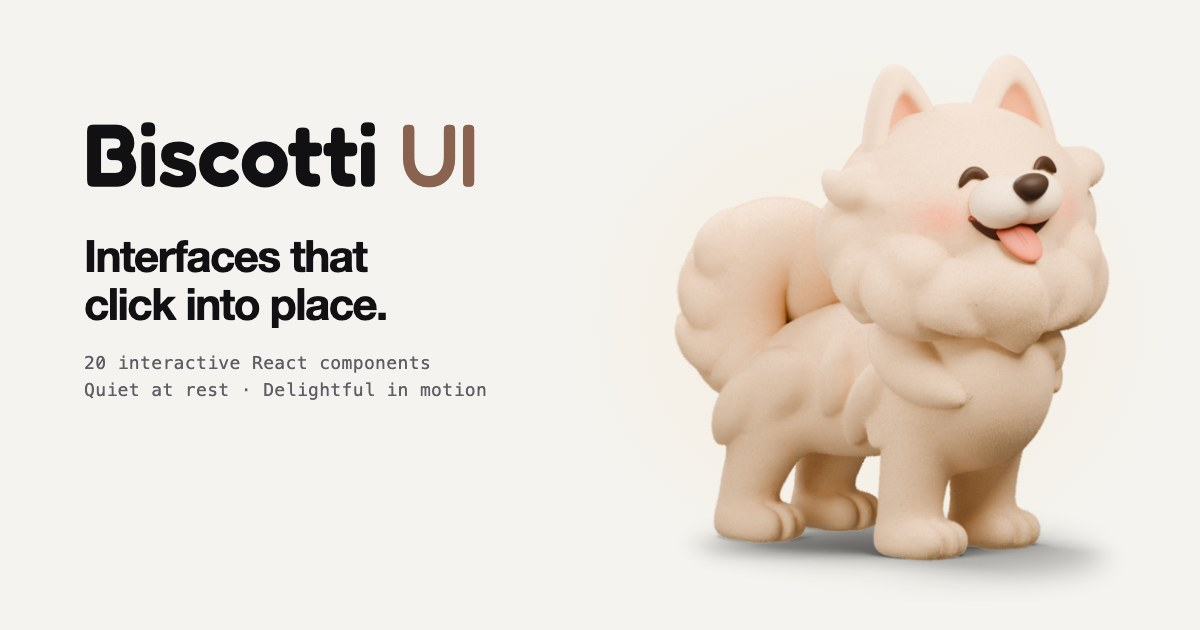
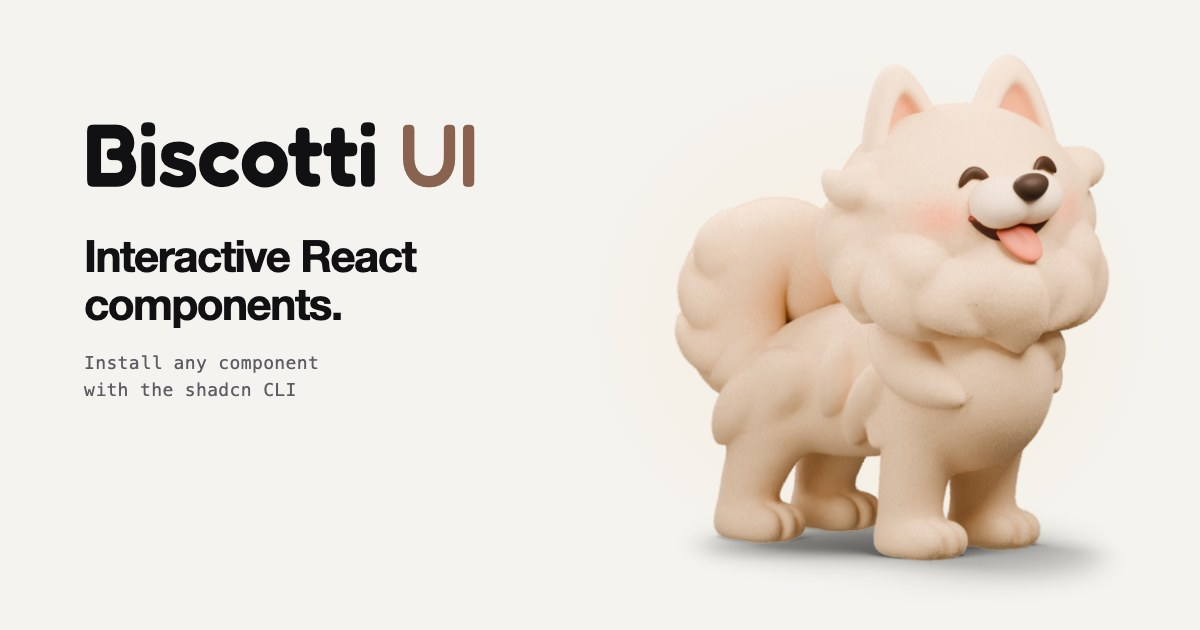
feat(web): plain technical copy; footer X link; GitHub links gated for public launch
Copy (ASD-STE100 style: short active sentences, concrete behaviour,
consistent terms): homepage hero, featured tile, metadata, 404,
Foundations section intros, Workbench intro, component install heading,
all 20 catalog summaries and descriptions, group intros and the social
image. Removes promotional counts and claims; commands, keys, numbers
and API names are unchanged.

Footer: circular X profile link (https://x.com/MukundMohanK). GitHub
links (header Source, footer Star on GitHub + GitHub, component View
source) render only when the build sets NEXT_PUBLIC_REPO_PUBLIC=true;
the default build has no repository links. check-pages enforces the
state on every route; e2e covers the default private footer.

Changed region(s): [[0.0925, 0.3619, 0.37, 0.5127], [0.0617, 0.5429, 0.4008, 0.6333]]

diff --git a/apps/web/src/app/foundations/page.tsx b/apps/web/src/app/foundations/page.tsx
@@ -71,7 +71,7 @@ export default function Foundations() {
           <p className="mb-3 font-mono text-2xs uppercase tracking-[0.08em] text-muted">Foundations</p>
           <h1 className="max-w-[820px] text-[clamp(34px,5.5vw,56px)] font-semibold leading-[1] tracking-[-0.04em]">Pencil, then ink.</h1>
           <p className="mt-5 max-w-[640px] text-md text-ink-2">
-            One rule explains every colour in Biscotti UI: anything provisional — streaming, proposed, pending, live — is drawn in pencil. When it becomes true, it’s inked. Everything else is paper, graphite and hairlines.
+            One rule sets every colour in Biscotti UI. Provisional state (streaming, proposed, pending, live) uses pencil. Committed state uses ink. All other surfaces use paper, graphite and hairlines.
           </p>
         </div>
         {/* Biscotti, the mascot: rendered from the editable Blender model. */}
@@ -89,7 +89,7 @@ export default function Foundations() {
         </div>
       </header>
 
-      <Section id="brand" n="00" title="Brand" intro="Biscotti is the mascot: a cream pup rendered in 3D. The face tile is the logo; the wordmark is set in Fredoka, with a lighter, toasted “UI”. Use the tile from 24 px up and keep clear space of half its width.">
+      <Section id="brand" n="00" title="Brand" intro="Biscotti is the mascot, a cream pup rendered in 3D. The face tile is the logo. The wordmark uses Fredoka, with a lighter “UI” in toasted brown. Use the tile at 24 px or larger. Keep clear space of half the tile width around it.">
         <div className="grid gap-3 sm:grid-cols-2">
           {(["light", "dark"] as const).map((t) => (
             <div key={t} data-theme={t} className="flex flex-col gap-5 rounded-lg bg-paper p-5 text-ink shadow-[inset_0_0_0_1px_var(--bis-hairline)]">
@@ -108,14 +108,14 @@ export default function Foundations() {
         </div>
       </Section>
 
-      <Section id="color" n="01" title="Colour" intro="Warm paper and graphite, one cobalt pencil, and status colours reserved for status. Every token is a CSS variable you can remap in a host app.">
+      <Section id="color" n="01" title="Colour" intro="Warm paper and graphite, one cobalt pencil, and status colours for status only. Each token is a CSS variable. A host app can remap any token.">
         <div className="grid gap-3 lg:grid-cols-2">
           <Swatches theme="light" />
           <Swatches theme="dark" />
         </div>
       </Section>
 
-      <Section id="type" n="02" title="Type" intro="Geist for interface, Geist Mono (tabular) for every number, timer, path and key. Newsreader italic appears in exactly one role: provenance — where a claim came from.">
+      <Section id="type" n="02" title="Type" intro="Geist for the interface. Geist Mono with tabular figures for numbers, timers, paths and keys. Newsreader italic for one role only: provenance, which shows the source of a claim.">
         <div className="grid">
           {typeScale.map(([k, px, use]) => (
             <div key={k} className="grid items-baseline gap-4 border-b border-hairline py-2.5 sm:grid-cols-[90px_1fr_200px]">
@@ -132,7 +132,7 @@ export default function Foundations() {
         </div>
       </Section>
 
-      <Section id="shape" n="03" title="Geometry & depth" intro="Small radii that grow with the size of the surface. Depth comes from hairlines and one soft ambient shadow — never glass or glow.">
+      <Section id="shape" n="03" title="Geometry & depth" intro="Radii increase with surface size. Depth comes from hairlines and one soft ambient shadow. No glass or glow.">
         <div className="flex flex-wrap items-end gap-5">
           {[["xs", 2, "chips, kbd"], ["sm", 4, "controls"], ["md", 6, "inputs"], ["lg", 10, "panels"], ["xl", 14, "stages"]].map(([k, r, use]) => (
             <div key={k as string} className="text-center">
@@ -153,15 +153,15 @@ export default function Foundations() {
         </div>
       </Section>
 
-      <Section id="motion" n="04" title="Motion" intro="Timing is chosen per interaction class. State changes on the input frame; springs only settle what already happened. Only the latch overshoots. Under reduced motion, travel becomes instant and a 120 ms fade remains.">
+      <Section id="motion" n="04" title="Motion" intro="Each interaction class has its own timing. State changes on the input frame. Springs only settle a change that already happened. Only the latch overshoots. With reduced motion, travel is instant and a 120 ms fade remains.">
         <Springs />
       </Section>
 
-      <Section id="sound" n="05" title="Sound" intro="Thirteen voices synthesised with the Web Audio API — filtered noise transients and pentatonic sine partials through one limiter. Off by default; never on hover, focus or background updates.">
+      <Section id="sound" n="05" title="Sound" intro="Thirteen voices synthesised with the Web Audio API: filtered noise transients and pentatonic sine partials through one limiter. Sound is off by default. It never plays on hover, focus or background updates.">
         <SoundBoard />
       </Section>
 
-      <Section id="icons" n="06" title="Icons" intro="Drawn on a 16 px grid with a 1.5 px stroke and round joins, sized to sit on the text baseline. Click to copy a name.">
+      <Section id="icons" n="06" title="Icons" intro="Drawn on a 16 px grid with a 1.5 px stroke and round joins. Sized for the text baseline. Click an icon to copy its name.">
         <IconGrid />
       </Section>
     </div>

diff --git a/apps/web/src/components/site-chrome.tsx b/apps/web/src/components/site-chrome.tsx
@@ -2,7 +2,7 @@
 import Link from "next/link";
 import { useEffect, useRef, useState, type ReactNode } from "react";
 import { AnimatePresence, motion } from "motion/react";
-import { REPO_URL, publicPath } from "@/site";
+import { REPO_PUBLIC, REPO_URL, X_PROFILE_URL, publicPath } from "@/site";
 import { announceIndexHash } from "@/components/home/index-browser";
 import { Icon, cn, surfaceVariants, useMotionTokens, useSoundPrefs, sound } from "@biscotti/ui";
 
@@ -169,7 +169,7 @@ export function SiteChrome({ children }: { children: ReactNode }) {
             <span className="sr-only">, home</span>
           </Link>
           <div className="ml-auto flex items-center gap-2">
-            <a href={REPO_URL} className="focus-ring mr-2 hidden items-center gap-1.5 rounded-sm text-xs text-muted hover:text-ink lg:inline-flex">Source<Icon name="arrowUpRight" size={13} /></a>
+            {REPO_PUBLIC && <a href={REPO_URL} className="focus-ring mr-2 hidden items-center gap-1.5 rounded-sm text-xs text-muted hover:text-ink lg:inline-flex">Source<Icon name="arrowUpRight" size={13} /></a>}
             {/* The labelled control fits from 400 px; narrower phones get the icon-only version so the header never overflows. */}
             <div className="hidden min-[400px]:block"><SoundControl /></div>
             <div className="min-[400px]:hidden"><SoundControl compact /></div>
@@ -183,6 +183,19 @@ export function SiteChrome({ children }: { children: ReactNode }) {
   );
 }
 
+/** Brand marks for the footer's profile links (not in the UI icon set). */
+function XMark() {
+  return <svg viewBox="0 0 24 24" width="14" height="14" aria-hidden fill="currentColor"><path d="M18.244 2.25h3.308l-7.227 8.26 8.502 11.24H16.17l-5.214-6.817L4.99 21.75H1.68l7.73-8.835L1.254 2.25H8.08l4.713 6.231zm-1.161 17.52h1.833L7.084 4.126H5.117z" /></svg>;
+}
+function GitHubMark() {
+  return <svg viewBox="0 0 16 16" width="15" height="15" aria-hidden fill="currentColor"><path d="M8 0C3.58 0 0 3.58 0 8c0 3.54 2.29 6.53 5.47 7.59.4.07.55-.17.55-.38 0-.19-.01-.82-.01-1.49-2.01.37-2.53-.49-2.69-.94-.09-.23-.48-.94-.82-1.13-.28-.15-.68-.52-.01-.53.63-.01 1.08.58 1.23.82.72 1.21 1.87.87 2.33.66.07-.52.28-.87.51-1.07-1.78-.2-3.64-.89-3.64-3.95 0-.87.31-1.59.82-2.15-.08-.2-.36-1.02.08-2.12 0 0 .67-.21 2.2.82.64-.18 1.32-.27 2-.27.68 0 1.36.09 2 .27 1.53-1.04 2.2-.82 2.2-.82.44 1.1.16 1.92.08 2.12.51.56.82 1.27.82 2.15 0 3.07-1.87 3.75-3.65 3.95.29.25.54.73.54 1.48 0 1.07-.01 1.93-.01 2.2 0 .21.15.46.55.38A8.01 8.01 0 0 0 16 8c0-4.42-3.58-8-8-8z" /></svg>;
+}
+function StarMark() {
+  return <svg viewBox="0 0 16 16" width="13" height="13" aria-hidden fill="none" stroke="currentColor" strokeWidth="1.4" strokeLinejoin="round"><path d="M8 1.6l1.9 3.9 4.3.6-3.1 3 .7 4.3L8 11.4l-3.8 2 .7-4.3-3.1-3 4.3-.6z" /></svg>;
+}
+
+const circle = "focus-ring grid size-8 shrink-0 place-items-center rounded-full text-ink-2 shadow-[inset_0_0_0_1px_var(--bis-hairline)] transition-colors duration-[90ms] hover:bg-surface hover:text-ink";
+
 /** Secondary destinations live here, not in the header: the site opens straight into the components. */
 function SiteFooter() {
   return (
@@ -195,9 +208,20 @@ function SiteFooter() {
           <Link href="/foundations" className="focus-ring rounded-xs hover:text-ink">Foundations</Link>
           <Link href="/workbench" className="focus-ring rounded-xs hover:text-ink">Workbench</Link>
           <a href={publicPath("/r/registry.json")} className="focus-ring rounded-xs hover:text-ink">Registry</a>
-          <a href={REPO_URL} className="focus-ring inline-flex items-center gap-1 rounded-xs hover:text-ink">Source <Icon name="arrowUpRight" size={12} /></a>
         </nav>
-        <span className="text-xs sm:ml-auto">MIT licence</span>
+        <div className="flex w-full flex-wrap items-center gap-x-4 gap-y-3 sm:ml-auto sm:w-auto">
+          {/* GitHub links render only once the repository is public (NEXT_PUBLIC_REPO_PUBLIC=true). */}
+          {REPO_PUBLIC && (
+            <a href={REPO_URL} className="focus-ring inline-flex h-8 items-center gap-1.5 rounded-full px-3 text-ink-2 shadow-[inset_0_0_0_1px_var(--bis-hairline)] transition-colors duration-[90ms] hover:bg-surface hover:text-ink">
+              <StarMark /> Star on GitHub
+            </a>
+          )}
+          <div className="flex items-center gap-2">
+            {REPO_PUBLIC && <a href={REPO_URL} aria-label="Biscotti UI on GitHub" className={circle}><GitHubMark /></a>}
+            <a href={X_PROFILE_URL} aria-label="Mukund Mohan on X" rel="me noopener" className={circle}><XMark /></a>
+          </div>
+          <span className="text-xs">MIT licence</span>
+        </div>
       </div>
     </footer>
   );

diff --git a/apps/web/src/app/components/[slug]/page.tsx b/apps/web/src/app/components/[slug]/page.tsx
@@ -6,7 +6,7 @@ import { groupId, inWorkbench } from "@/catalog/group-info";
 import { StageShell } from "@/components/stage-shell";
 import { Code } from "@/components/code";
 import { Icon, Kbd } from "@biscotti/ui";
-import { canonicalMetadata, siteUrl, REGISTRY_IS_LOCAL, REGISTRY_URL, componentSourceUrl, originComment } from "@/site";
+import { canonicalMetadata, siteUrl, REGISTRY_IS_LOCAL, REGISTRY_URL, REPO_PUBLIC, componentSourceUrl, originComment } from "@/site";
 
 export function generateStaticParams() {
   return catalog.map((e) => ({ slug: e.slug }));
@@ -141,9 +141,11 @@ export default async function ComponentPage({ params }: { params: Promise<{ slug
                 </li>
               ))}
             </ol>
-            <a href={source} className="focus-ring mt-6 inline-flex items-center gap-1.5 rounded-xs text-sm text-ink-2 hover:text-ink">
-              <Icon name="code" size={14} /> View source <Icon name="external" size={12} className="text-muted" />
-            </a>
+            {REPO_PUBLIC && (
+              <a href={source} className="focus-ring mt-6 inline-flex items-center gap-1.5 rounded-xs text-sm text-ink-2 hover:text-ink">
+                <Icon name="code" size={14} /> View source <Icon name="external" size={12} className="text-muted" />
+              </a>
+            )}
           </div>
         </nav>
 
@@ -161,7 +163,7 @@ export default async function ComponentPage({ params }: { params: Promise<{ slug
           <Section id="install" n={num("install")} title="Install">
             <div className="grid gap-5">
               <div className="grid gap-2">
-                <h3 className="text-sm font-medium">Copy the source with the shadcn CLI</h3>
+                <h3 className="text-sm font-medium">Install the source with the shadcn CLI</h3>
                 <Code lang="sh" title="Terminal" code={install} />
                 <p className="max-w-[680px] text-sm text-muted [overflow-wrap:anywhere]">
                   Adds the component and the shared <span className="font-mono text-ink-2">biscotti-foundation</span> (tokens, springs, sound engine, icons) under <span className="font-mono text-ink-2">components/biscotti/</span>
@@ -178,9 +180,11 @@ export default async function ComponentPage({ params }: { params: Promise<{ slug
                 <h3 className="text-sm font-medium">Or import it inside this monorepo</h3>
                 <Code lang="tsx" title="workspace" code={`import { ${componentImport(e.usage)} } from "@biscotti/ui";`} />
               </div>
-              <a href={source} className="focus-ring inline-flex w-fit items-center gap-1.5 rounded-xs text-sm text-ink-2 hover:text-ink lg:hidden">
-                <Icon name="code" size={14} /> View source on GitHub <Icon name="external" size={12} className="text-muted" />
-              </a>
+              {REPO_PUBLIC && (
+                <a href={source} className="focus-ring inline-flex w-fit items-center gap-1.5 rounded-xs text-sm text-ink-2 hover:text-ink lg:hidden">
+                  <Icon name="code" size={14} /> View source on GitHub <Icon name="external" size={12} className="text-muted" />
+                </a>
+              )}
             </div>
           </Section>
 

diff --git a/apps/web/src/app/not-found.tsx b/apps/web/src/app/not-found.tsx
@@ -1,15 +1,14 @@
 import Link from "next/link";
 import type { Metadata } from "next";
 import { Icon } from "@biscotti/ui";
-import { catalog } from "@/catalog";
 import { publicPath } from "@/site";
 
 // Next adds <meta name="robots" content="noindex"> to not-found pages itself.
 export const metadata: Metadata = { title: "Page not found" };
 
 const routes = [
-  { href: "/", label: "Components", detail: `All ${catalog.length}, live`, icon: "layers" },
-  { href: "/workbench", label: "Workbench", detail: "Ten components working together", icon: "activity" },
+  { href: "/", label: "Components", detail: "Live preview of each component", icon: "layers" },
+  { href: "/workbench", label: "Workbench", detail: "One app that uses the components together", icon: "activity" },
   { href: "/foundations", label: "Foundations", detail: "Brand, colour, type, motion, sound", icon: "palette" },
 ] as const;
 
@@ -27,10 +26,10 @@ export default function NotFound() {
         <span>Not found</span>
       </p>
       <h1 className="mt-4 max-w-[720px] text-[clamp(34px,6vw,64px)] font-semibold leading-[1] tracking-[-0.04em]">
-        Still in pencil.
+        Page not found.
       </h1>
       <p className="mt-5 max-w-[560px] text-md leading-[26px] text-ink-2">
-        Nothing has been inked at this address. The page may have moved, or the link was never real. Every component lives under Components.
+        No page exists at this address. The page moved, or the link is incorrect. Go to Components to see all components.
       </p>
 
       {/* The provisional rule from the components: a pencil line with a gap, never closed. */}
@@ -66,7 +65,7 @@ export default function NotFound() {
           alt="Biscotti the pup, close up, smiling with its tongue out"
           className="block h-auto w-full rounded-[14px] shadow-[inset_0_0_0_1px_var(--bis-hairline)]"
         />
-        <figcaption className="mt-3 font-mono text-2xs text-muted">Biscotti looked everywhere. Nothing here yet.</figcaption>
+        <figcaption className="mt-3 font-mono text-2xs text-muted">No page at this address.</figcaption>
       </figure>
     </div>
   );

diff --git a/e2e/navigation.spec.ts b/e2e/navigation.spec.ts
@@ -2,7 +2,7 @@ import { expect, test } from "@playwright/test";
 
 test("the homepage is the component index: headline, featured tile, category sidebar/tabs with hash sync, footer links", async ({ page }, info) => {
   await page.goto("/", { waitUntil: "networkidle" });
-  await expect(page.getByRole("heading", { level: 1, name: "Twenty components, built to be touched." })).toBeVisible();
+  await expect(page.getByRole("heading", { level: 1, name: "Interactive React components." })).toBeVisible();
   // The header carries the brand, sound and theme only.
   await expect(page.locator("header nav")).toHaveCount(0);
   await expect(page.getByRole("button", { name: /Copy to clipboard/ }).first()).toBeVisible();
@@ -107,5 +107,21 @@ test("a hold-to-confirm Kinetic Button keeps its size when it completes", async 
     const now = (await btn.boundingBox())!;
     expect(Math.round(now.width), `width while ${state}`).toBe(Math.round(before.width));
     expect(Math.round(now.x), `x while ${state}`).toBe(Math.round(before.x));
+  }
+});
+
+test("footer: circular X profile link; no GitHub links while the repository is private (default build)", async ({ page }) => {
+  for (const path of ["/", "/components/kinetic-button", "/foundations"]) {
+    await page.goto(path, { waitUntil: "networkidle" });
+    const x = page.getByRole("contentinfo").getByRole("link", { name: "Mukund Mohan on X" });
+    await expect(x).toHaveAttribute("href", "https://x.com/MukundMohanK");
+    const box = (await x.boundingBox())!;
+    expect(Math.round(box.width)).toBe(32);
+    expect(Math.round(box.height)).toBe(32);
+    // rounded-full computes to a very large px radius; anything >= half the size draws a circle.
+    expect(await x.evaluate((el) => parseFloat(getComputedStyle(el).borderRadius))).toBeGreaterThanOrEqual(16);
+    // Private by default: no Source, Star or View source links that would 404 for visitors.
+    await expect(page.locator('a[href^="https://github.com/"]')).toHaveCount(0);
+    await expect(page.getByRole("link", { name: /Star on GitHub|View source|^Source/ })).toHaveCount(0);
   }
 });

diff --git a/apps/web/src/catalog/streaming-response.tsx b/apps/web/src/catalog/streaming-response.tsx
@@ -6,10 +6,10 @@ export const entry: CatalogEntry = {
   number: "10",
   name: "Streaming Response",
   group: "Agent interactions",
-  summary: "Renders a real text stream as light markdown, with chunk fades, citations and a pencil caret.",
+  summary: "Renders a text stream as Markdown, with chunk fades, citations and a pencil caret.",
   description:
-    "Renders an agent's answer as it streams, from a ReadableStream, an async iterable or a fetch Response, through the useTextStream hook. Markdown is parsed incrementally and half-typed syntax is held back, so markers never flash as literal characters. Each new chunk lifts from 35% opacity instead of typing out character by character, and the pencil caret is the one live mark. Inline [n] citations open a source card with the quoted passage. When the answer settles, an action row, the cited sources and follow-up suggestions fade in. Stop keeps the partial answer and marks it.",
-  useCases: ["Chat and copilot answers", "Agent reports with cited sources", "Any long generated text that should be readable while it arrives"],
+    "Renders an agent answer while it streams. The source can be a ReadableStream, an async iterable or a fetch Response, through the useTextStream hook. Markdown is parsed incrementally. Incomplete syntax is held back, so markers do not show as literal characters. Each new chunk fades in from 35% opacity; text is not typed out character by character. The pencil caret is the only live mark. Inline [n] citations open a source card with the quoted text. When the answer is complete, an action row, the cited sources and follow-up suggestions fade in. Stop keeps the partial answer and marks it as stopped.",
+  useCases: ["Chat and copilot answers", "Agent reports with cited sources", "Long generated text that users read while it streams"],
   scale: "l",
   Demo: StreamingResponseDemo,
   Preview: () => <StreamingResponseDemo compact />,

diff --git a/apps/web/src/catalog/kinetic-button.tsx b/apps/web/src/catalog/kinetic-button.tsx
@@ -6,10 +6,10 @@ export const entry: CatalogEntry = {
   number: "01",
   name: "Kinetic Button",
   group: "Tactile controls",
-  summary: "A button family that presses physically and narrates its own async lifecycle.",
+  summary: "A button that shows pending, success and error states. Supports hold to confirm.",
   description:
-    "Press and it sinks a pixel on the input frame, then springs back on release, with no hover lift. Return a Promise from onClick and it runs idle → pending → success | error by itself: a spinner while the present-progressive label shows, a check that draws itself beside the past tense, and a nudge plus an err edge on failure. A button with a lifecycle holds the width of its widest state from the start, so its neighbours never reflow when the spinner or check appears. Destructive actions can require a hold, which fills in pencil, ticks at each quarter and latches before running.",
-  useCases: ["Export, sync and publish actions that take a moment", "Destructive actions that deserve a deliberate hold", "Toolbars of attached actions"],
+    "When you press the button, it moves down 1 px. When you release it, it springs back. It has no hover lift. If onClick returns a Promise, the button changes state by itself: idle, pending, then success or error. Pending shows a spinner and the present-progressive label. Success shows a check and the past-tense label. Error shows a short shake and an error edge. A button with a lifecycle keeps the width of its widest state, so the buttons next to it do not move. Destructive actions can require a hold. The hold fills in pencil, ticks at each quarter and then runs the action.",
+  useCases: ["Export, sync and publish actions that take a moment", "Destructive actions that need a hold to confirm", "Toolbars of attached actions"],
   scale: "s",
   Demo: KineticButtonDemo,
   Preview: KineticButtonPreview,

diff --git a/apps/web/src/catalog/tool-chip.tsx b/apps/web/src/catalog/tool-chip.tsx
@@ -6,9 +6,9 @@ export const entry: CatalogEntry = {
   number: "12",
   name: "Tool Execution Chip",
   group: "Agent interactions",
-  summary: "One quiet inline chip per tool call that opens in place into its input and output.",
+  summary: "Shows one inline chip per tool call. Opens in place to show the input and output.",
   description:
-    "Records each tool an agent calls as a single line: verb, target in mono, and the one number that matters (+12 −3 with a five-cell diff bar, 7 results, exit 1, 200). While a call runs it is present tense with one pencil spinner; when it lands it settles to quiet past tense, or err for a failure. Clicking a chip widens it into a detail card in place, with the arguments, output (a command's last three lines first) and duration. ToolChipGroup folds a whole run into “7 tool calls · 2 files changed” with one tick per call, and the ticks double as a jump list: click one (or arrow to it) to open the group at that call.",
+    "Shows each agent tool call as one line: the verb, the target in mono, and one key number (+12 −3 with a five-cell diff bar, 7 results, exit 1, 200). A running call uses the present tense and one pencil spinner. A completed call uses the past tense, or the error colour if it failed. Click a chip to expand it in place into a detail card with the arguments, the output (the last three lines of a command first) and the duration. ToolChipGroup collapses a run into one line, for example “7 tool calls · 2 files changed”, with one tick for each call. Click a tick, or move to it with the arrow keys, to open the group at that call.",
   useCases: ["Coding-agent transcripts (reads, searches, edits, test runs)", "Audit trail of what an assistant touched", "Compact tool-use log under a chat reply"],
   scale: "m",
   Demo: ToolChipDemo,

diff --git a/apps/web/src/app/page.tsx b/apps/web/src/app/page.tsx
@@ -12,7 +12,7 @@ export const metadata = canonicalMetadata();
 
 const install = `npx shadcn@latest add ${REGISTRY_URL}/r/kinetic-button.json`;
 
-/** The homepage is the component index: an editorial headline, one featured component, then all of them. */
+/** The homepage is the component index: a headline, one featured component, then the full index. */
 export default function Home() {
   const sections = groups.map((g) => {
     const order = tileLayout[g] ?? [];
@@ -39,10 +39,10 @@ export default function Home() {
       <section aria-labelledby="home-h" className="grid gap-8 pb-8 pt-10 md:pt-16 lg:grid-cols-[minmax(0,1fr)_minmax(0,460px)] lg:items-end lg:gap-14 lg:pb-10">
         <div className="min-w-0">
           <h1 id="home-h" className="max-w-[760px] text-[clamp(40px,7.4vw,72px)] font-semibold leading-[1] tracking-[-0.035em]">
-            Twenty components, built to be touched.
+            Interactive React components.
           </h1>
           <p className="mt-5 max-w-[520px] text-md leading-[26px] text-ink-2">
-            Interactive React components for productivity, creative and AI-native software. Try each one here, then copy the source into your app.
+            Try a component here. Use the shadcn CLI to add its source files to your project.
           </p>
         </div>
         <div className="min-w-0">
@@ -55,7 +55,7 @@ export default function Home() {
             </div>
           </div>
           <Link href="/workbench" className="focus-ring mt-4 inline-flex items-center gap-1.5 rounded-xs text-sm text-ink-2 hover:text-ink">
-            See ten of them working together in the Workbench <Icon name="arrowRight" size={14} />
+            Open Workbench <Icon name="arrowRight" size={14} />
           </Link>
         </div>
       </section>

diff --git a/apps/web/src/catalog/workflow-stepper.tsx b/apps/web/src/catalog/workflow-stepper.tsx
@@ -6,9 +6,9 @@ export const entry: CatalogEntry = {
   number: "14",
   name: "Workflow Stepper",
   group: "Agent interactions",
-  summary: "A multi-step run drawn as dependency lanes that split, run in parallel and merge.",
+  summary: "Shows a multi-step run as dependency lanes that split, run in parallel and merge.",
   description:
-    "Steps are laid out by dependency depth, so parallel work (“Order PCBs” ∥ “Order encoders”) runs in its own lane and merges where it's needed. Connectors draw in pencil toward the step that's running and settle to ink when it's done. A failure turns its node red, stops the line, and greys downstream steps into a dashed “blocked” state until Retry. Selecting a step slides its owner, timing and output into a panel below, in the direction you moved. Without dependencies it becomes a linear wizard with working Next and Back.",
+    "Steps are arranged by dependency depth. Parallel steps (“Order PCBs” ∥ “Order encoders”) run in separate lanes and merge where a later step needs both. Connectors draw in pencil toward the running step and change to ink when it is done. A failed step turns red and stops the run. Steps after it show a dashed “blocked” state until you click Retry. Select a step to show its owner, timing and output in a panel below. The panel slides in the direction of your move. Without dependencies, the stepper is a linear wizard with Next and Back.",
   useCases: ["Agent or CI pipelines with parallel stages", "Operations runbooks (procurement, fulfilment, releases)", "Multi-step setup or checkout wizards"],
   scale: "l",
   Demo: WorkflowStepperDemo,

diff --git a/apps/web/src/catalog/insight-card.tsx b/apps/web/src/catalog/insight-card.tsx
@@ -6,10 +6,10 @@ export const entry: CatalogEntry = {
   number: "19",
   name: "Insight Card",
   group: "Information & editing",
-  summary: "A KPI with rolling digits, a scrubbable SVG chart and an insight sentence worth reading.",
+  summary: "Shows one KPI with animated digits, a scrubbable SVG chart and a one-sentence insight.",
   description:
-    "One metric, told well. The headline digits roll column by column to each new value. Scrub the chart by pointer or arrow keys and the headline becomes that day (“on Sat 14 Mar”), compared with the same day of the previous period. Switching 7D/30D/90D morphs the line rather than redrawing it: both shapes are resampled at the union of their vertices, so each end of the morph is exact. Events sit on the x-axis as small markers with detail on hover or focus.",
-  useCases: ["Dashboards and launch rooms", "Agent-written reports with a headline number", "Sales, sign-ups, conversion at a glance"],
+    "Shows one metric. When the value changes, the headline digits roll to the new value column by column. Scrub the chart with the pointer or the arrow keys. The headline then shows the selected day (“on Sat 14 Mar”) and compares it with the same day of the previous period. Select 7D, 30D or 90D to change the range. The line morphs to the new range and is not redrawn. Events are small markers on the x-axis. Hover or focus a marker to see its details.",
+  useCases: ["Dashboards and launch rooms", "Agent-written reports with a headline number", "Sales, sign-up and conversion metrics"],
   scale: "m",
   Demo: InsightCardDemo,
   Preview: InsightCardPreview,

diff --git a/apps/web/src/components/home/featured-tile.tsx b/apps/web/src/components/home/featured-tile.tsx
@@ -10,7 +10,7 @@ export function FeaturedTile() {
     <section aria-labelledby="featured-h" className="flex min-h-[300px] flex-col justify-between gap-8 rounded-[18px] bg-[var(--feature-bg)] p-5 md:min-h-[340px] md:p-6">
       <div className="flex items-baseline justify-between gap-4 text-[var(--feature-label)]">
         <p className="text-xs uppercase tracking-[0.08em]">Featured</p>
-        <p className="text-sm">Hold the red one</p>
+        <p className="text-sm">Hold the red button to delete</p>
       </div>
       <div className="flex flex-wrap items-center justify-center gap-3.5">
         <KineticButton size="lg" icon="check" pendingLabel="Saving" successLabel="Saved" onClick={() => wait(900)}>
@@ -23,7 +23,7 @@ export function FeaturedTile() {
       <Link href="/components/kinetic-button" className="focus-ring group flex items-end justify-between gap-4 rounded-sm">
         <span className="min-w-0">
           <span id="featured-h" className="block text-[20px] font-semibold leading-6 tracking-[-0.01em] text-[var(--feature-ink)]">Kinetic Button</span>
-          <span className="mt-0.5 block text-sm text-[var(--feature-text)]">Press, hold-to-confirm and success states, with sound.</span>
+          <span className="mt-0.5 block text-sm text-[var(--feature-text)]">Shows pending, success and error states. Supports hold to confirm.</span>
         </span>
         <Icon name="arrowRight" size={18} className="mb-0.5 shrink-0 text-[var(--feature-ink)] transition-transform duration-[120ms] group-hover:translate-x-0.5" />
       </Link>
